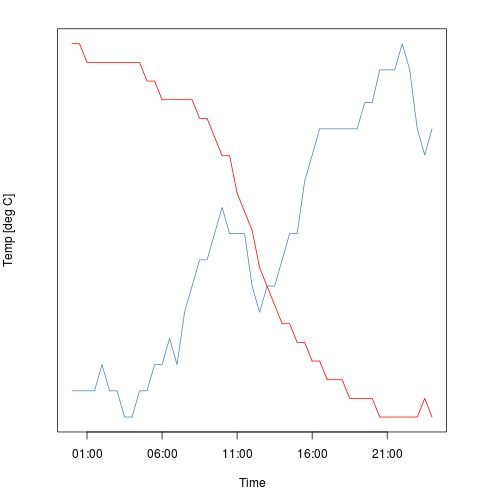
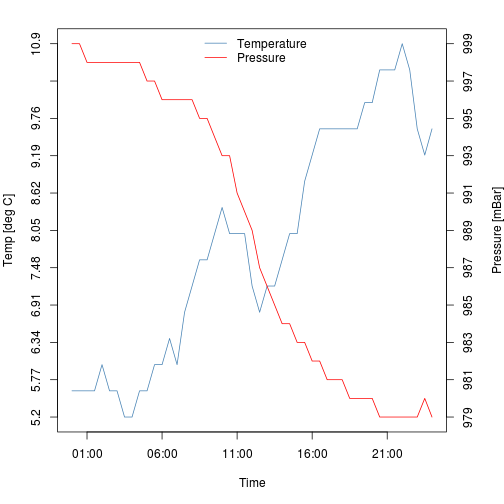
fix rprog figs

diff --git a/R/rprog.md b/R/rprog.md
@@ -106,48 +106,21 @@ press <- press/max(press)
 ```
 
 
-- Plot with minimal decoration
+- Plotting
 
 
 ```r
+## Plot with minimal decoration
 par(mar = c(5, 4, 2, 4))
 plot(w$Time, temp, type = "l", xlab = "Time", ylab = "Temp [deg C]", yaxt = "n", 
     col = "steelblue")
 lines(w$Time, press, col = "red")
-```
 
-![plot of chunk rprog.Rmd-9](figure/rprog_Rmd-9.png) 
-
-
-- Axis, title and legends
-
-
-```r
+## Axis, title and legends
 axis(2, at = seq(0, 1, length = 11), labels = seq(min(temp0), max(temp0), length = 11))
-```
-
-```
-## Error: plot.new has not been called yet
-```
-
-```r
 axis(4, at = seq(0, 1, length = 11), labels = seq(min(press0), max(press0), 
     length = 11))
-```
-
-```
-## Error: plot.new has not been called yet
-```
-
-```r
 mtext("Pressure [mBar]", 4, line = 3)
-```
-
-```
-## Error: plot.new has not been called yet
-```
-
-```r
 title(f)
 ```
 
@@ -160,9 +133,7 @@ legend("top", c("Temperature", "Pressure"), col = c("steelblue", "red"), lty = 1
     bty = "n")
 ```
 
-```
-## Error: plot.new has not been called yet
-```
+![plot of chunk rprog.Rmd-9](figure/rprog_Rmd-9.png) 
 
 
 ### Exercise
